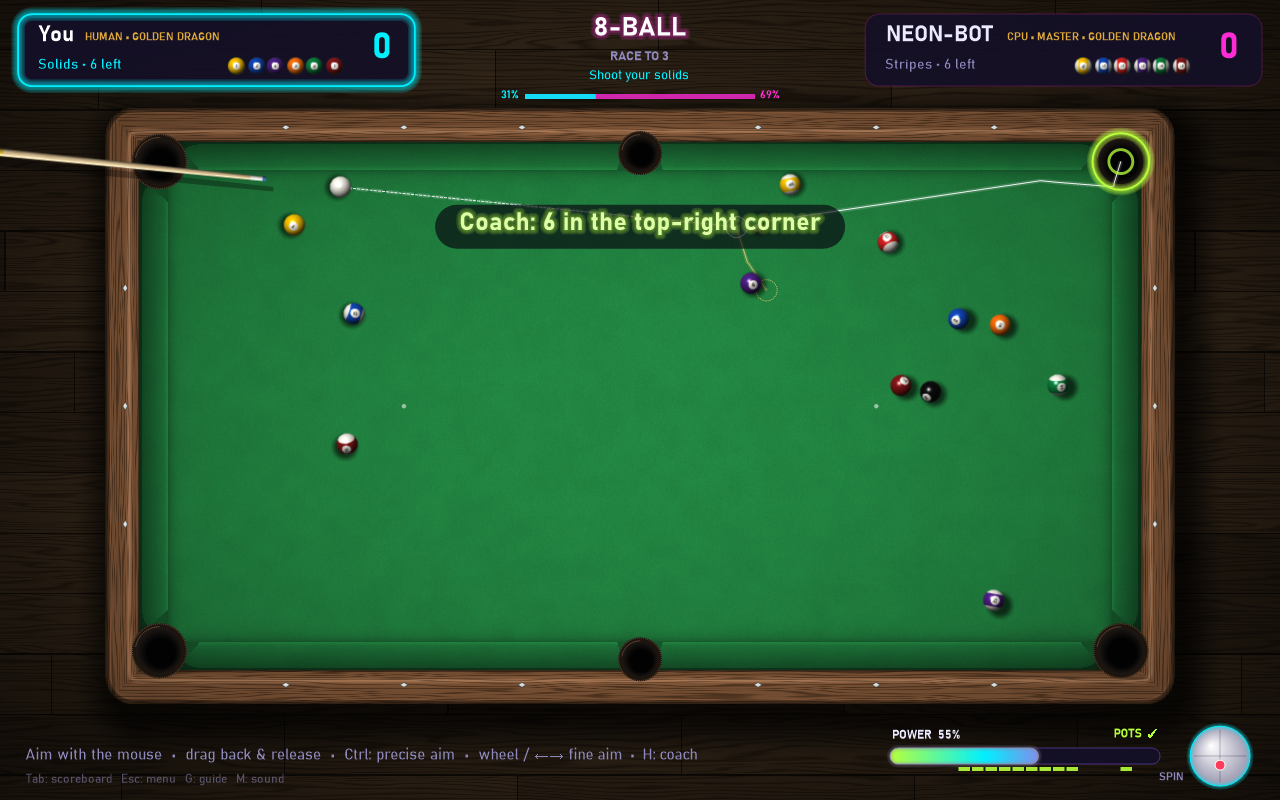
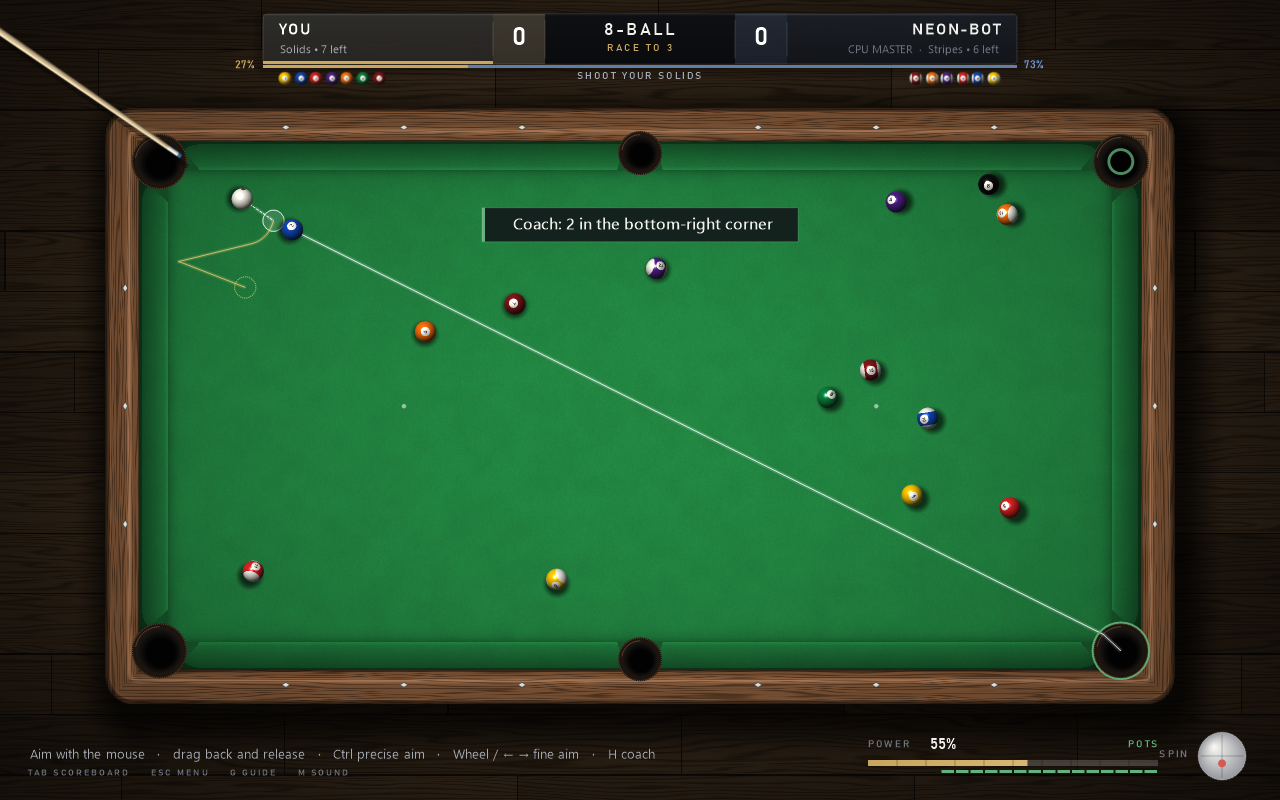
v1.11.0: README and screenshots for the new interface

diff --git a/README.md b/README.md
@@ -1,6 +1,6 @@
 # Neon Cue
 
-A billiards game for Windows, written in C# (.NET 8, WinForms + GDI+, no external packages). It has a photorealistic look, with the original neon style still available.
+A billiards game for Windows, written in C# (.NET 8, WinForms + GDI+, no external packages). It has a photorealistic table and a clean, broadcast-style interface (charcoal panels, gold and steel-blue accents); the original neon table is still available as a table style.
 It has six game modes, four AI levels and a deterministic physics engine. The AI plans its shots by
 playing them out in that same engine.
 
